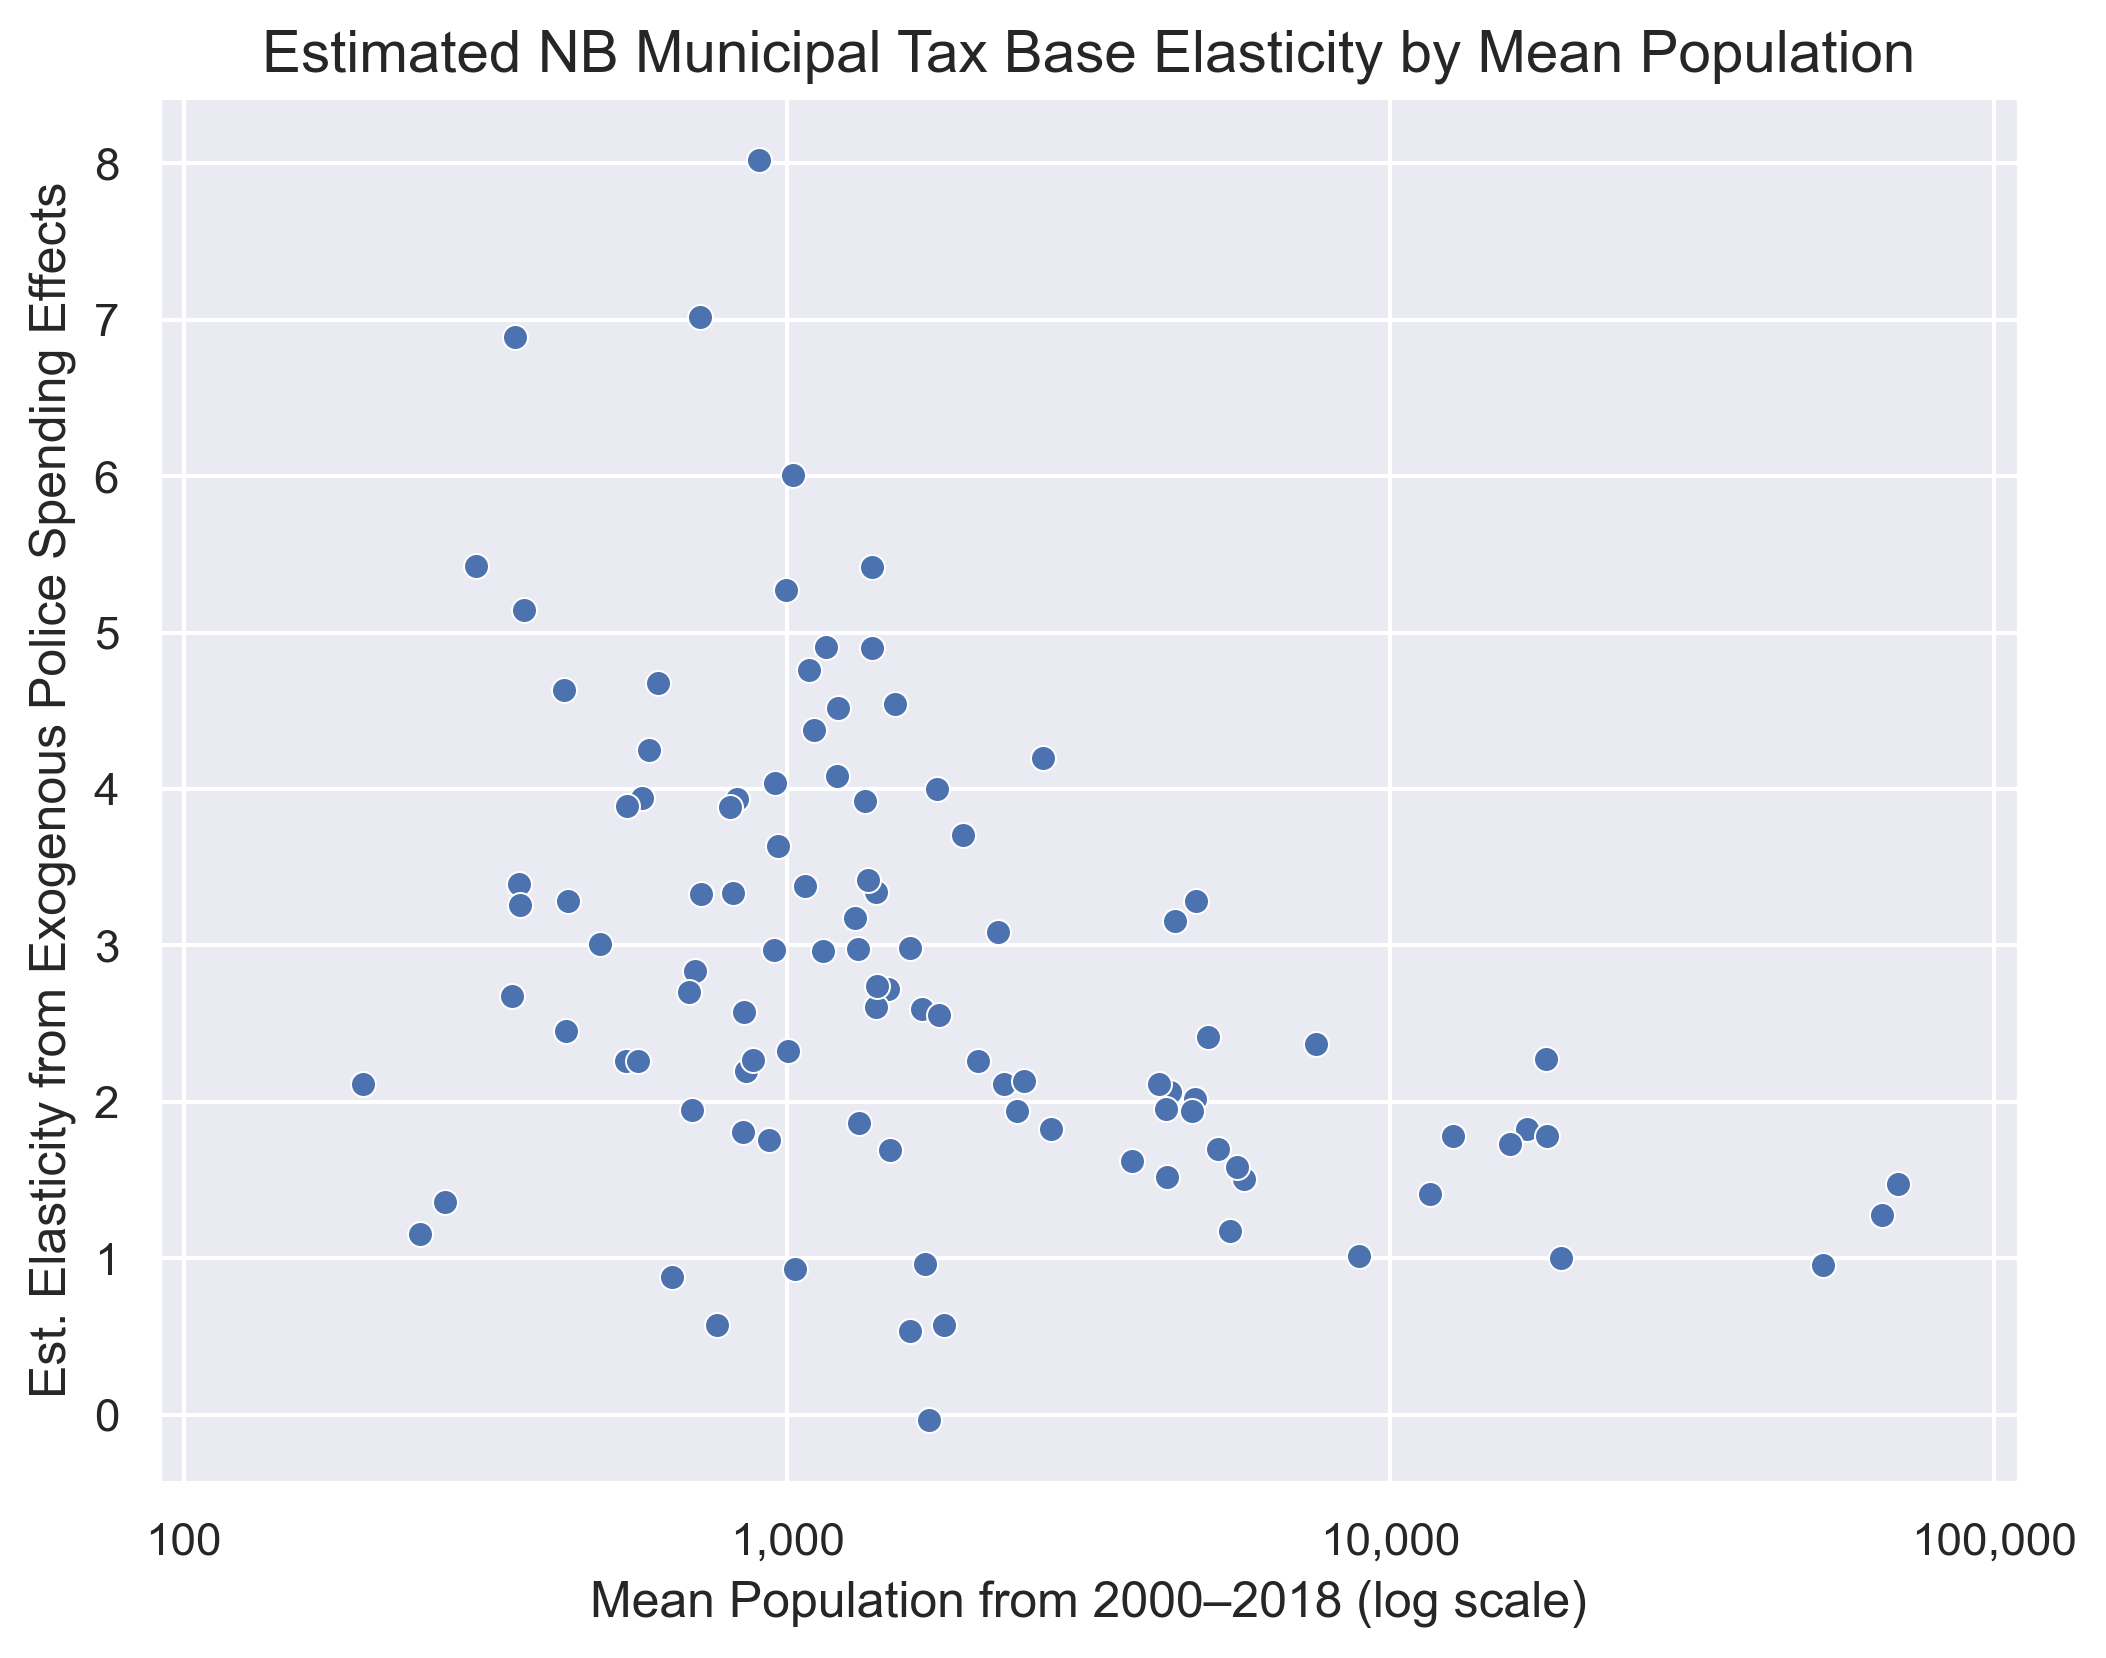
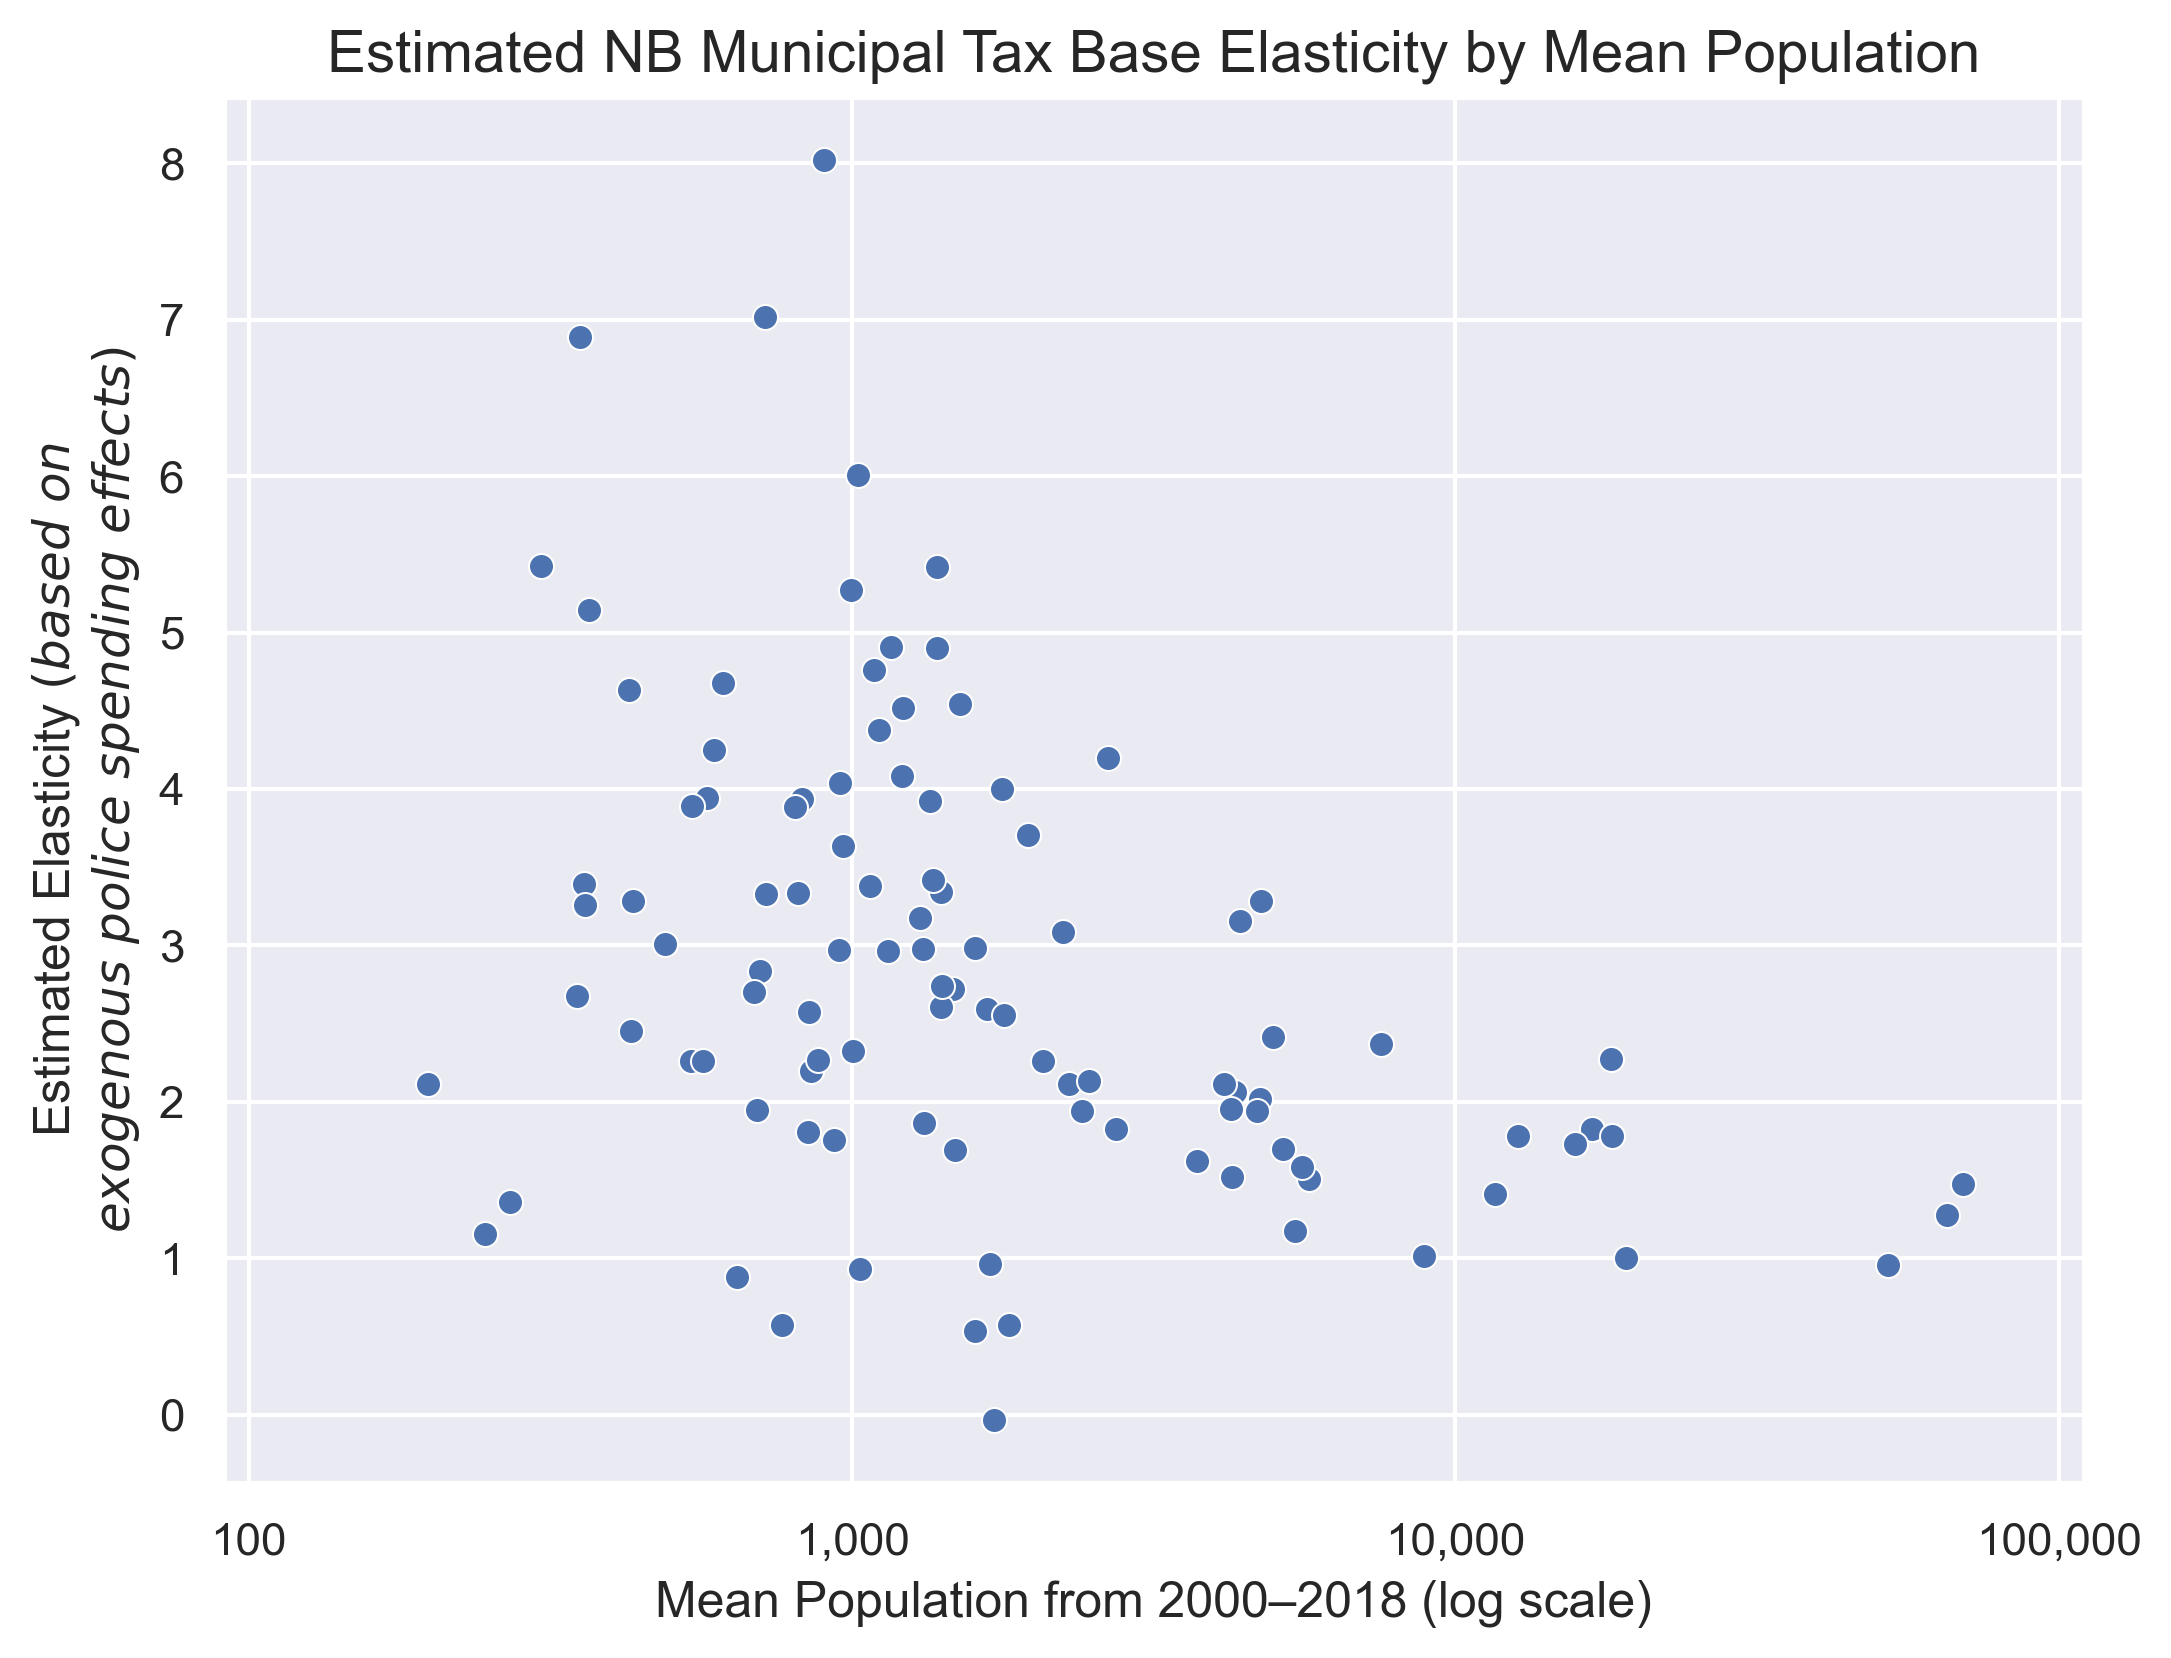
Finalizing plots for Apr. 2 UMNB symposium

diff --git a/data_visualization/helper_scripts/_fe_2sls_.py b/data_visualization/helper_scripts/_fe_2sls_.py
@@ -44,117 +44,118 @@ INDEP_VAR = "PolExpCapita"
 HUE_VAR = "Provider"
 CONTROL_VARS = ["OtherExpCapita", "OtherRevCapita", "TaxBaseCapita"]
 
+
+# %%
 NUM_STEPS = 1000
 
 TITLE = "FE-2SLS Regression of NB Municipal Tax Rates on Police Spending"
 TITLESIZE = 14
 XLABEL = f"${INDEP_VAR}_{{it}} - \overline{{{INDEP_VAR}}}_i$  (CAD/person)"
-YLABEL = f"${DEP_VAR}_{{it}} - \overline{{{DEP_VAR}}}_i$  (%)" \
-      "\n$\it{(adjusted~for~controls)}$"
+YLABEL = f"${DEP_VAR}_{{it}} - \overline{{{DEP_VAR}}}_i$  (%)\n" \
+    "$\it{(adjusted~for~control~variables)}$"
 
 
 # %%
 def main():
-      source_2sls = os.path.join(SOURCE_DIR, 'data_2sls.xlsx')
-      source_result = os.path.join(SOURCE_DIR, 'model_result.pkl')
-      dest = os.path.join(WD, 'fe_2sls.png')
-      
-      params, params_indic = read_and_process_result(source_result)
-      df = read_and_adjust_2sls_data(source_2sls, params)
-      x, ys = generate_lobfs(df, params_indic)
-      save_regress_plot(df, x, ys, dest)
+    source_2sls = os.path.join(SOURCE_DIR, 'data_2sls.xlsx')
+    source_result = os.path.join(SOURCE_DIR, 'model_result.pkl')
+    dest = os.path.join(WD, '..', 'fe_2sls.png')
+    
+    params, params_indic = read_and_process_result(source_result)
+    df = read_and_adjust_2sls_data(source_2sls, params)
+    x, ys = generate_lobfs(df, params_indic)
+    save_regress_plot(df, x, ys, dest)
 
 
 # %%
 def get_indic(token: str) -> str:
-      indic = token.rsplit('_')[-1]
-      return next((v for k, v in INDIC_MAP.items() if indic == k), indic)
+    indic = token.rsplit('_')[-1]
+    return next((v for k, v in INDIC_MAP.items() if indic == k), indic)
 
 
 # %%
 def read_and_process_result(source_result: str) -> tuple[pd.Series, pd.Series]:
-      result = pickle.load(open(source_result, 'rb'))
-      params = result.params * SCALE1 / SCALE2
-      
-      params_indic = params[:0]
-      new_key = get_indic(INDIC_EX)
-      params_indic[new_key] = params[INDEP_VAR]
-      
-      for col in INDICS_IN:
-            key = f"{INDEP_VAR}:{col}"
-            new_key = get_indic(col)
-            params_indic[new_key] = params[INDEP_VAR] + params[key]
-      
-      return params, params_indic
+    result = pickle.load(open(source_result, 'rb'))
+    params = result.params * SCALE1 / SCALE2
+    
+    params_indic = params[:0]
+    new_key = get_indic(INDIC_EX)
+    params_indic[new_key] = params[INDEP_VAR]
+    
+    for col in INDICS_IN:
+        key = f"{INDEP_VAR}:{col}"
+        new_key = get_indic(col)
+        params_indic[new_key] = params[INDEP_VAR] + params[key]
+    
+    return params, params_indic
 
 
 # %%
 def read_and_adjust_2sls_data(
-      source_2sls: str, params: pd.Series
+    source_2sls: str, params: pd.Series
 ) -> pl.DataFrame:
-      df = (pl.read_excel(source_2sls, columns=COLUMNS)
-            .with_columns(pl.col(COLS_SCALE1) * SCALE1,
-                          pl.col(COLS_SCALE2) * SCALE2)
-            .with_columns(cs.by_dtype(pl.Float64) - cs.by_dtype(pl.Float64)
-                          .mean()
-                          .over(pl.col(GROUP_COL)),
-                          (pl.lit(1) - pl.sum_horizontal(INDICS_IN))
-                          .alias(INDIC_EX))
-            .with_columns((pl.col(col) * pl.col(INDEP_VAR))
-                          .alias(f"{INDEP_VAR}:{col}")
-                          for col in INDICS_IN)
-            .with_columns(pl.when(pl.col(col) == 1)
-                          .then(pl.lit(col).str.extract(r'([^_]+$)'))
-                          .alias(col)
-                          for col in INDICS_ALL)
-            .with_columns(pl.coalesce(pl.col(f'^{prefix}_.+$'))
-                          .str.replace(k, v)
-                          .alias(prefix)
-                          for k, v in INDIC_MAP.items()
-                          for prefix in
-                          dict.fromkeys(col.rsplit('_', maxsplit=1)[0]
-                                        for col in INDICS_ALL))
-            .drop(INDICS_ALL))
-      
-      for var in CONTROL_VARS:
-            df = df.with_columns(pl.col(DEP_VAR) - pl.col(var) * params[var])
-      
-      return df
+    df = (pl.read_excel(source_2sls, columns=COLUMNS)
+          .with_columns(pl.col(COLS_SCALE1) * SCALE1,
+                        pl.col(COLS_SCALE2) * SCALE2)
+          .with_columns(cs.by_dtype(pl.Float64) - cs.by_dtype(pl.Float64)
+                        .mean()
+                        .over(pl.col(GROUP_COL)),
+                        (pl.lit(1) - pl.sum_horizontal(INDICS_IN))
+                        .alias(INDIC_EX))
+          .with_columns((pl.col(col) * pl.col(INDEP_VAR))
+                        .alias(f"{INDEP_VAR}:{col}")
+                        for col in INDICS_IN)
+          .with_columns(pl.when(pl.col(col) == 1)
+                        .then(pl.lit(col).str.extract(r'([^_]+$)'))
+                        .alias(col)
+                        for col in INDICS_ALL)
+          .with_columns(pl.coalesce(pl.col(f'^{prefix}_.+$'))
+                        .str.replace(k, v)
+                        .alias(prefix)
+                        for k, v in INDIC_MAP.items()
+                        for prefix in
+                        dict.fromkeys(col.rsplit('_', maxsplit=1)[0]
+                                      for col in INDICS_ALL))
+          .drop(INDICS_ALL))
+    
+    for var in CONTROL_VARS:
+        df = df.with_columns(pl.col(DEP_VAR) - pl.col(var) * params[var])
+    
+    return df
 
 
 # %%
 def generate_lobfs(
-      df: pl.DataFrame, params_indic: pd.Series
+    df: pl.DataFrame, params_indic: pd.Series
 ) -> tuple[np.ndarray, list]:
-      start = df.select(INDEP_VAR).min().item()
-      stop = df.select(INDEP_VAR).max().item()
-      
-      x = np.linspace(start, stop, NUM_STEPS)
-      ys = [param * x for param in params_indic]
-      return x, ys
+    start = df.select(INDEP_VAR).min().item()
+    stop = df.select(INDEP_VAR).max().item()
+    
+    x = np.linspace(start, stop, NUM_STEPS)
+    ys = [param * x for param in params_indic]
+    return x, ys
 
 
 # %%
 def save_regress_plot(
-      df: pl.DataFrame, x: np.ndarray, ys: list, dest: str
+    df: pl.DataFrame, x: np.ndarray, ys: list, dest: str
 ) -> None:
-      sns.set_theme(rc={'figure.figsize': (8, 6)})
-      plt.figure()
-      
-      plot = sns.scatterplot(df,
-                             x=INDEP_VAR, y=DEP_VAR,
-                             hue=HUE_VAR, hue_order=map(get_indic, INDICS_ALL),
-                             alpha=0.8, s=25)
-      plot.set_title(TITLE, fontsize=TITLESIZE)
-      plot.set(xlabel=XLABEL, ylabel=YLABEL)
-      
-      for y in ys:
-            sns.lineplot(x=x, y=y, lw=2, legend=False)
-      
-      plt.savefig(dest, dpi=300, bbox_inches='tight')
-      plt.close()
+    sns.set_theme(rc={'figure.figsize': (8, 6)})
+    plt.figure()
+    plot = sns.scatterplot(df,
+                           x=INDEP_VAR, y=DEP_VAR,
+                           hue=HUE_VAR, hue_order=map(get_indic, INDICS_ALL),
+                           alpha=0.8, s=25)
+    plot.set_title(TITLE, fontsize=TITLESIZE)
+    plot.set(xlabel=XLABEL, ylabel=YLABEL)
+    
+    for y in ys:
+        sns.lineplot(x=x, y=y, lw=2, legend=False)
+    
+    plt.savefig(dest, dpi=300, bbox_inches='tight')
+    plt.close()
 
 
 # %%
 if __name__ == "__main__":
-      main()
+    main()

diff --git a/data_visualization/helper_scripts/_alt_tax_rates_.py b/data_visualization/helper_scripts/_alt_tax_rates_.py
@@ -1,0 +1,131 @@
+# %%
+import os
+import pickle
+
+import matplotlib.pyplot as plt
+import pandas as pd
+import polars as pl
+import seaborn as sns
+
+
+# %%
+WD = os.path.dirname(__file__)
+SOURCE_DIR = os.path.join(WD, '..', '..', 'data_analysis', 'fe_2sls_results')
+
+
+# %%
+DEP_VAR = "AvgTaxRate"
+INDEP_VAR = "PolExpCapita"
+CONTROL_VARS = ["OtherExpCapita", "OtherRevCapita", "TaxBaseCapita"]
+INTER_VARS = {
+    f"{INDEP_VAR}:Provider_MPSA":
+        pl.col(INDEP_VAR) * pl.col("Provider_MPSA"),
+    f"{INDEP_VAR}:Provider_Muni":
+        pl.col(INDEP_VAR) * pl.col("Provider_Muni"),
+}
+
+COLUMNS = ["Year", "Municipality",
+           "AvgTaxRate",
+           "PolExpCapita", "OtherExpCapita",
+           "OtherRevCapita", "TaxBaseCapita",
+           "Provider_MPSA", "Provider_Muni"]
+GROUP_COL = "Municipality"
+TIME_COL = "Year"
+DEMEAN_COLS = COLUMNS[3:-2]
+
+PRED1_COL = f"{DEP_VAR}_wPolExp"
+PRED2_COL = f"{DEP_VAR}_woPolExp"
+YEARS = list(range(2000, 2019, 2))
+
+
+# %%
+SCALE1 = 100
+SCALE2 = 1e5
+
+COLS_SCALE1 = ["AvgTaxRate"]
+COLS_SCALE2 = ["PolExpCapita", "OtherExpCapita",
+               "OtherRevCapita", "TaxBaseCapita"]
+
+
+# %%
+CATS = {
+    DEP_VAR: ('solid', "Observed Mean Rate"),
+    PRED1_COL: ('dashed', "Predicted (using actual police spending data)"),
+    PRED2_COL: ('dashed', "Predicted (using spending levels from 2000)"),
+}
+
+TITLE = "NB Tax Rate Progression, Holding Police Spending Constant"
+TITLESIZE = 14
+YLABEL = "Mean of Municipal Average Tax Rates  (%)"
+
+
+# %%
+def main():
+    source_2sls = os.path.join(SOURCE_DIR, 'data_2sls.xlsx')
+    source_result = os.path.join(SOURCE_DIR, 'model_result.pkl')
+    dest = os.path.join(WD, '..', 'alt_tax_rates.png')
+    
+    result = pickle.load(open(source_result, 'rb'))
+    params = result.params * SCALE1 / SCALE2
+    df = pred_rates(source_2sls, params)
+    
+    plot_rates(df, dest)
+
+
+# %%
+def pred_rates(source_2sls: str, params: pd.Series) -> pl.DataFrame:
+    df = (pl.read_excel(source_2sls, columns=COLUMNS)
+          .with_columns(pl.col(COLS_SCALE1) * SCALE1,
+                        pl.col(COLS_SCALE2) * SCALE2)
+          .with_columns((pl.col(INDEP_VAR).mean().over(pl.col(GROUP_COL))
+                           - pl.col(INDEP_VAR).first().over(pl.col(GROUP_COL)))
+                          .alias("Change"))
+          .with_columns(pl.col(DEMEAN_COLS) - pl.col(DEMEAN_COLS)
+                        .mean()
+                        .over(pl.col(GROUP_COL)),
+                        pl.col(DEP_VAR)
+                        .mean()
+                        .over(pl.col(GROUP_COL))
+                        .alias(PRED2_COL))
+          .with_columns((pl.col(PRED2_COL) + params[INDEP_VAR]
+                         * pl.col(INDEP_VAR))
+                        .alias(PRED1_COL))
+          .with_columns(pl.col(PRED2_COL) - params[INDEP_VAR]
+                        * pl.col("Change")))
+    
+    for col in CONTROL_VARS:
+        df = df.with_columns(pl.col(PRED1_COL) + params[col] * pl.col(col),
+                             pl.col(PRED2_COL) + params[col] * pl.col(col))
+    
+    for k, v in INTER_VARS.items():
+        df = df.with_columns(pl.col(PRED1_COL) + params[k] * v,
+                             pl.col(PRED2_COL) + params[k] * v)
+    
+    return (df.group_by(TIME_COL)
+            .agg(pl.col(DEP_VAR, PRED1_COL, PRED2_COL)
+                 .mean())
+            .sort(TIME_COL))
+
+
+# %%
+def plot_rates(df: pl.DataFrame, dest: str) -> None:
+    sns.set_theme(rc={'figure.figsize': (8, 6)})
+    plt.figure()
+    plot = sns.scatterplot(df,
+                           x=TIME_COL, y=DEP_VAR,
+                           alpha=0.8, s=25)
+    plot.set_title(TITLE, fontsize=TITLESIZE)
+    plot.set(ylabel=YLABEL, xticks=YEARS)
+    
+    for y, (ls, label) in CATS.items():
+        sns.lineplot(df,
+                     x=TIME_COL, y=y,
+                     ls=ls, label=label)
+    
+    plt.savefig(dest, dpi=300, bbox_inches='tight')
+    plt.close()
+
+
+# %%
+if __name__ == '__main__':
+    main()

diff --git a/data_visualization/helper_scripts/_elasticity_.py b/data_visualization/helper_scripts/_elasticity_.py
@@ -19,7 +19,8 @@ SOURCE_DIR = os.path.join(WD,
 TITLE = "Estimated NB Municipal Tax Base Elasticity by Mean Population"
 TITLESIZE = 14
 XLABEL = "Mean Population from 2000\u20132018 (log scale)"
-YLABEL = "Est. Elasticity from Exogenous Police Spending Effects"
+YLABEL = "Estimated Elasticity $\it{(based~on}$\n" \
+    "$\it{exogenous~police~spending~effects)}$"
 
 XCOLUMN = "MeanPop"
 YCOLUMN = "EstTaxBaseElast"
@@ -28,7 +29,7 @@ YCOLUMN = "EstTaxBaseElast"
 # %%
 def main():
     source = os.path.join(SOURCE_DIR, 'elasticity.xlsx')
-    dest = os.path.join(WD, 'elasticity.png')
+    dest = os.path.join(WD, '..', 'elasticity.png')
     
     df = pl.read_excel(source)
     save_elasticity_plot(df, dest)
